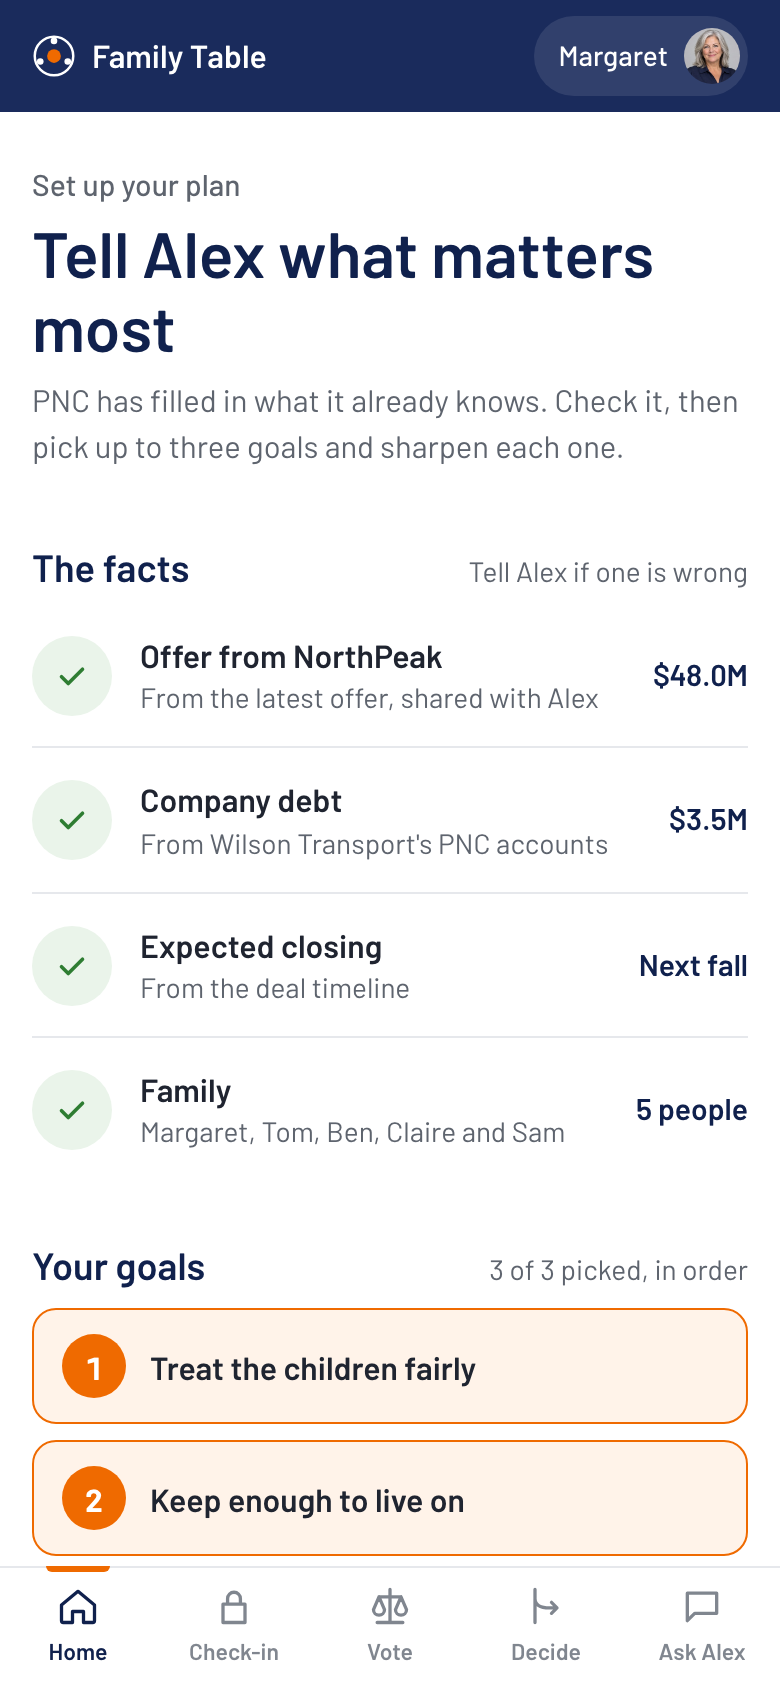
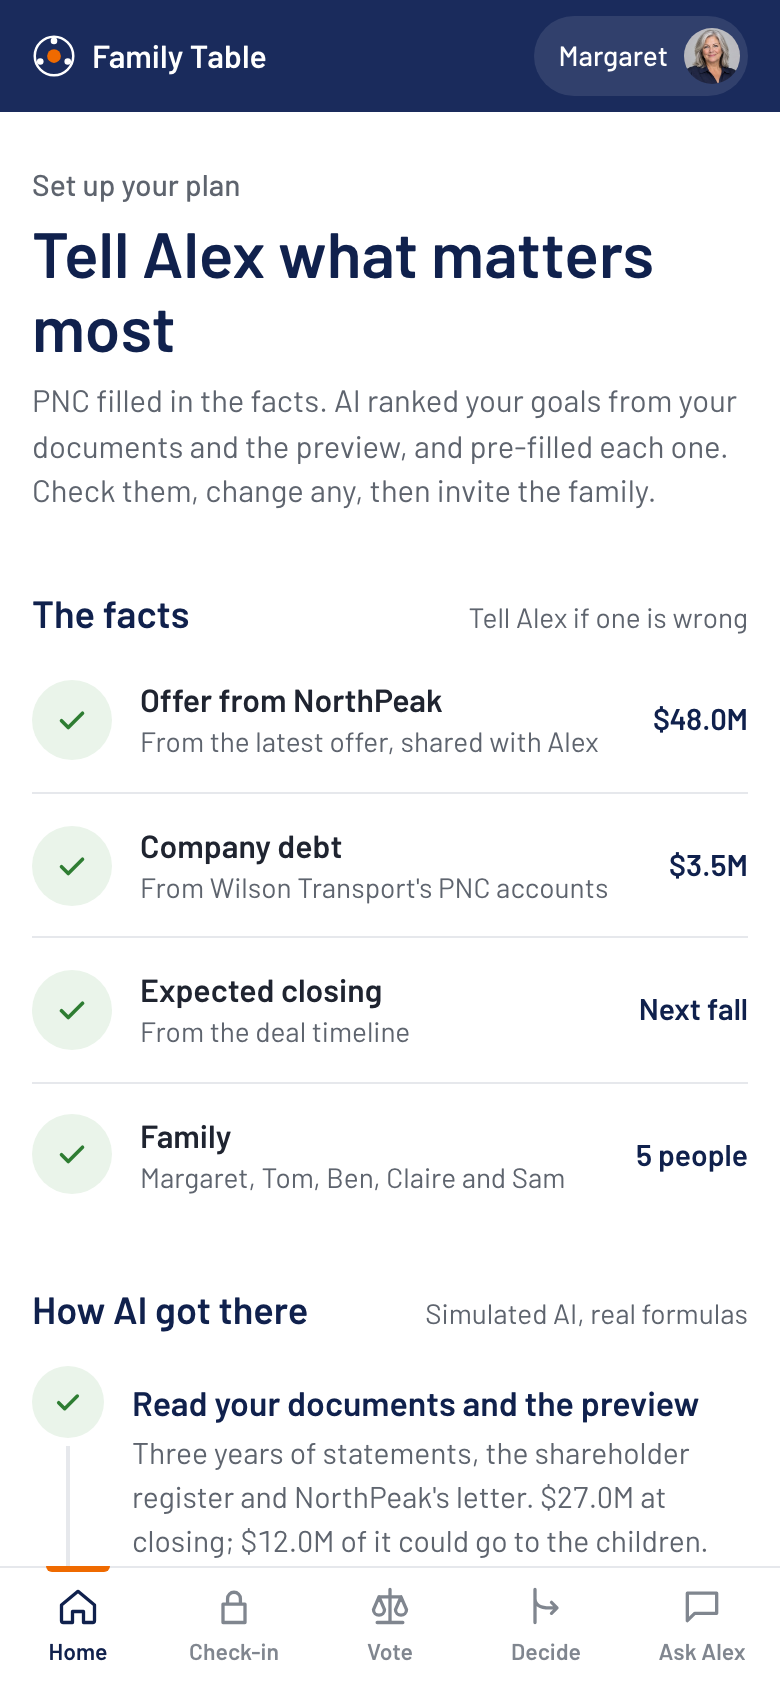
Setup: AI recommends the goals, Margaret confirms
"Your goals" and the sharpening sections are replaced by "What AI
recommends": a three-step trace (read the documents and the preview,
ranked the goals, pre-filled each one) and three goal cards in AI's
order, each already answered with a one-line reason from numbers the
prototype already has. "Change" opens the old control inline; a
changed value shows "Your choice" and what AI recommended. Unpicked
goals sit below as one-tap adds, and a fourth goal takes third place.
Nothing is saved until "Looks right, invite the family". Tour step 3
hint updated; the setup slide crop state updated; screenshots
regenerated.

diff --git a/prototype/app.js b/prototype/app.js
@@ -16,7 +16,7 @@
   const fresh = () => ({ shared: [], optOut: false, approved: false, started: false, routed: {}, pick: "balanced", picked: {}, votes: {},
     answers: {}, intro: {}, invited: false, chapter: [], agreed: {}, msgs: [], replies: {}, drafts: {}, calls: {}, confirmed: {},
     shareReply: {}, tour: -1, pv: { value: 48, kids: 3, inBiz: 1 }, pvDocs: null, pvRead: false, pvFix: false, previewed: false, goals: ["fair", "live", "chapter"],
-    fairMeans: null, spend: 300, foundation: 2, keepName: false, tree: {}, pathSent: {}, presented: false });
+    fairMeans: null, goalFix: {}, spend: 300, foundation: 2, keepName: false, tree: {}, pathSent: {}, presented: false });
   let state = fresh();
   try {
     const qp = new URLSearchParams(location.search);
@@ -236,7 +236,7 @@
     { side: "Family", stage: "Align", route: "preview", title: "Margaret previews what's possible",
       hint: "Before she talks to anyone, she adds what she has and AI reads it. Tap Use the Wilsons' documents.", target: '[data-act="pv-sample"]', done: () => state.pvRead },
     { side: "Family", stage: "Align", route: "me/margaret/setup", title: "Margaret sets her goals",
-      hint: "PNC already filled in the facts. She sharpens what fair means to her, then invites the family.", target: '[data-act="invite"]', done: () => state.invited },
+      hint: "AI ranked three goals from her documents and pre-filled each one. Margaret checks them and invites the family.", target: '[data-act="invite"]', done: () => state.invited },
     { side: "Family", stage: "Align", route: "me/claire/checkin", title: "Claire says what she's never said",
       hint: "Her words stay on this screen unless she shares them. Share answer 1 with Alex.", target: '[data-act="toggle-share"][data-id="q1"]', done: () => state.shared.includes("q1") },
     { side: "Advisor", stage: "Align", route: "advisor/align", title: "The AI reads. Alex decides.", noScroll: true,
@@ -631,29 +631,54 @@
   }
 
   // ---------- onboarding: confirm the facts, choose and sharpen goals ----------
+  // AI's recommendations for Margaret's goals, from the documents and the numbers the prototype already has.
+  // Nothing is saved until she invites the family; "Change" opens the control for that goal.
+  const REC = { fair: "balanced", chapter: "foundation" };
+  const fairNow = () => state.fairMeans || REC.fair;
+  const chapterNow = () => state.chapter.length ? state.chapter : [REC.chapter];
   function setupPage() {
-    const sel = state.goals, G = Object.fromEntries(S.goals.map(g => [g.id, g])), years = 9000 / state.spend;
+    const sel = state.goals, G = Object.fromEntries(S.goals.map(g => [g.id, g])), years = 9000 / state.spend, fm = fairNow(), ch = chapterNow();
     const refine = {
-      fair: () => `<p class="rf-q">For you, fair means…</p><div class="rf-opts">${S.options.map(o => { const g = gifts(o.w); return `<button class="rf-opt ${state.fairMeans === o.id ? "on" : ""}" data-act="fair-means" data-id="${o.id}" aria-pressed="${state.fairMeans === o.id}"><b>${o.label}</b><span>Ben ${money(g.ben)}, Claire ${money(g.claire)}, Sam ${money(g.sam)}</span></button>`; }).join("")}</div>`,
+      fair: () => `<p class="rf-q">For you, fair means…</p><div class="rf-opts">${S.options.map(o => { const g = gifts(o.w); return `<button class="rf-opt ${fm === o.id ? "on" : ""}" data-act="fair-means" data-id="${o.id}" aria-pressed="${fm === o.id}"><b>${o.label}</b><span>Ben ${money(g.ben)}, Claire ${money(g.claire)}, Sam ${money(g.sam)}</span></button>`; }).join("")}</div>`,
       live: () => `<p class="rf-q">How much would you and Tom spend a year?</p><div class="pv-in"><label><span>A year</span><b data-spend>$${state.spend}K</b></label><input type="range" min="200" max="450" step="25" value="${state.spend}" data-act="spend" aria-label="Spending a year, in thousands"></div>
         <p class="rf-out"><b data-years>${Math.floor(years)} years</b> is how long your ${money(9)} lasts at that pace, before any growth.</p>`,
-      chapter: () => `<p class="rf-q">What could your next chapter look like?</p><div class="chips">${CHAPTER.map(([id, t]) => `<button class="chip ${state.chapter.includes(id) ? "on" : ""}" data-act="chapter" data-id="${id}" aria-pressed="${state.chapter.includes(id)}">${t}</button>`).join("")}</div>`,
+      chapter: () => `<p class="rf-q">What could your next chapter look like?</p><div class="chips">${CHAPTER.map(([id, t]) => `<button class="chip ${ch.includes(id) ? "on" : ""}" data-act="chapter" data-id="${id}" aria-pressed="${ch.includes(id)}">${t}</button>`).join("")}</div>`,
       give: () => `<p class="rf-q">How much of the ${money(6)} you invest goes to a family foundation?</p><div class="seg" role="group">${[1, 2, 3].map(x => `<button class="${state.foundation === x ? "on" : ""}" data-act="foundation" data-id="${x}" aria-pressed="${state.foundation === x}">${money(x)}</button>`).join("")}</div>`,
       name: () => `<div class="switch-row"><span class="tx"><b>Ask NorthPeak to keep the Wilson Transport name for 3 years</b><span>Alex adds it to the questions for the letter of intent.</span></span><button class="switch" role="switch" aria-checked="${state.keepName}" aria-label="Ask to keep the company name" data-act="keep-name"></button></div>`,
     };
+    const g = gifts(OPT[fm].w);
+    const rec = {
+      fair: [`${OPT[fm].label}: Ben ${money(g.ben)}, Claire ${money(g.claire)}, Sam ${money(g.sam)}`, fm === REC.fair ? "Ben keeps $1.5M of NorthPeak equity. Balanced counts half of it, so the gap between siblings narrows. The family's own view comes from the private check-ins." : "Your choice. AI recommended Balanced: Ben keeps $1.5M of NorthPeak equity, and Balanced counts half of it."],
+      live: [`$${state.spend}K a year, about ${Math.floor(years)} years covered`, state.spend === 300 ? `Your ${money(9)} live-on bucket covers that for ${Math.floor(years)} years, before growth.` : `Your choice. AI suggested $300K a year, which the ${money(9)} bucket covers for 30 years before growth.`],
+      chapter: [ch.map(id => CHAPTER.find(c => c[0] === id)[1]).join("; "), ch.length === 1 && ch[0] === REC.chapter ? "Your plan already sets aside $2.0M to give back. A foundation gives it a home, and you a role after 35 years of running the company." : "Your choice. AI recommended the foundation: your plan already sets aside $2.0M to give back."],
+      give: [`${money(state.foundation)} to a family foundation`, `From the ${money(6)} you invest and give back.`],
+      name: [state.keepName ? "Ask NorthPeak to keep the name for 3 years" : "Not asked yet", "Alex adds it to the questions for the letter of intent."],
+    };
+    const summary = id => rec[id][0];
+    const cards = sel.map((id, i) => `<article class="rec"><div class="rec-h"><span class="rk">${i + 1}</span><b>${G[id].label}</b>
+        <button class="linkbtn" data-act="goal-fix" data-id="${id}">${state.goalFix[id] ? "Done" : "Change"}</button></div>
+        <p class="rec-v">${rec[id][0]}</p><p class="rec-why">${rec[id][1]}</p>
+        ${state.goalFix[id] ? `<div class="rec-edit">${refine[id]()}<button class="linkbtn small" data-act="goal" data-id="${id}">Remove this goal</button></div>` : ""}</article>`).join("");
+    const others = S.goals.filter(x => !sel.includes(x.id));
     return `<div class="page"><div class="cols"><div class="col-main">
       <section class="hero"><div class="label">Set up your plan</div><h1 class="title">Tell Alex what matters most</h1>
-        <div class="caption">PNC has filled in what it already knows. Check it, then pick up to three goals and sharpen each one.</div></section>
+        <div class="caption">PNC filled in the facts. AI ranked your goals from your documents and the preview, and pre-filled each one. Check them, change any, then invite the family.</div></section>
       <section class="section"><div class="section-head"><h2>The facts</h2><span class="aside">Tell Alex if one is wrong</span></div>
         <div class="rows">${S.facts.map(([k, v, src]) => `<div class="row"><span class="ic g">${ic("check", 18, 2.4)}</span><span class="tx"><b>${k}</b><span>${src}</span></span><span class="rt">${v}</span></div>`).join("")}</div></section>
-      <section class="section"><div class="section-head"><h2>Your goals</h2><span class="aside">${sel.length} of 3 picked, in order</span></div>
-        <div class="goals">${S.goals.map(g => { const i = sel.indexOf(g.id); return `<button class="goal ${i >= 0 ? "on" : ""}" data-act="goal" data-id="${g.id}" aria-pressed="${i >= 0}"><span class="g-n">${i >= 0 ? i + 1 : ic(g.icon, 18)}</span><b>${g.label}</b></button>`; }).join("")}</div></section>
-      ${sel.map((id, i) => `<section class="section refine"><div class="section-head"><h2><span class="rk">${i + 1}</span>${G[id].label}</h2></div>${refine[id]()}</section>`).join("")}
+      <section class="section trace-wrap"><div class="section-head"><h2>How AI got there</h2><span class="aside">Simulated AI, real formulas</span></div>
+        <ol class="trace">${[
+          ["Read your documents and the preview", `Three years of statements, the shareholder register and NorthPeak's letter. ${money(net())} at closing; ${money(12)} of it could go to the children.`],
+          ["Ranked your goals", "Fairness first: one child stays with the buyer and two don't. Then what you live on, then what comes after 35 years of running the company."],
+          ["Pre-filled each one", "From the numbers, not from guesses. Change any of them below."],
+        ].map(([t, b], k) => step(k, t, `<p>${b}</p>`)).join("")}</ol></section>
+      <section class="section recs"><div class="section-head"><h2>What AI recommends</h2><span class="aside">${sel.length} goals, in order</span></div>
+        <div class="rec-list">${cards}</div>
+        ${others.length ? `<p class="rf-q" style="margin-top:14px">Also considered. Tap one to add it; with three already picked, it takes third place.</p><div class="goals">${others.map(x => `<button class="goal" data-act="goal" data-id="${x.id}" aria-pressed="false"><span class="g-n">${ic(x.icon, 18)}</span><b>${x.label}</b></button>`).join("")}</div>` : ""}</section>
       </div><aside class="col-side">
         <section class="panel"><div class="section-head"><h2>What Alex will see</h2></div><div class="rows">
-          ${sel.length ? sel.map((id, i) => `<div class="row"><span class="ic o">${i + 1}</span><span class="tx"><b>${G[id].label}</b><span>${id === "fair" ? (state.fairMeans ? "Fair means: " + OPT[state.fairMeans].label : "Not sharpened yet") : id === "live" ? `$${state.spend}K a year, about ${Math.floor(years)} years covered` : id === "chapter" ? `${state.chapter.length} idea${state.chapter.length === 1 ? "" : "s"} picked` : id === "give" ? `${money(state.foundation)} to a family foundation` : state.keepName ? "Ask to keep the name for 3 years" : "Not asked yet"}</span></span></div>`).join("") : `<p class="small muted">Pick at least one goal.</p>`}</div>
+          ${sel.length ? sel.map((id, i) => `<div class="row"><span class="ic o">${i + 1}</span><span class="tx"><b>${G[id].label}</b><span>${summary(id)}</span></span></div>`).join("") : `<p class="small muted">Pick at least one goal.</p>`}</div>
           <p class="micro faint" style="margin-top:8px">Your goals go to Alex. Your family sees only the options they lead to.</p>
-          <div style="margin-top:14px">${state.invited ? `<button class="btn done block" disabled>${ic("check", 18, 2.4)} Goals saved, family invited</button>` : `<button class="btn block" data-act="invite" ${sel.length ? "" : "disabled"}>Save my goals and invite the family</button>`}</div></section>
+          <div style="margin-top:14px">${state.invited ? `<button class="btn done block" disabled>${ic("check", 18, 2.4)} Goals saved, family invited</button>` : `<button class="btn block" data-act="invite" ${sel.length ? "" : "disabled"}>Looks right, invite the family</button>`}</div></section>
       </aside></div></div>`;
   }
 
@@ -850,7 +875,8 @@
     else if (a === "approve") set({ approved: true });
     else if (a === "unapprove") set({ approved: false });
     else if (a === "route") set({ routed: Object.assign({}, state.routed, { [id]: true }) });
-    else if (a === "invite") set({ invited: true });
+    else if (a === "invite") set({ invited: true, fairMeans: fairNow(), chapter: chapterNow() });
+    else if (a === "goal-fix") set({ goalFix: Object.assign({}, state.goalFix, { [id]: !state.goalFix[id] }), fairMeans: fairNow(), chapter: chapterNow() });
     else if (a === "chapter") set({ chapter: state.chapter.includes(id) ? state.chapter.filter(x => x !== id) : [...state.chapter, id] });
     else if (a === "intro") set({ intro: Object.assign({}, state.intro, { [id]: true }) });
     else if (a === "agree") set({ agreed: Object.assign({}, state.agreed, { [id]: true }) });
@@ -876,7 +902,7 @@
     else if (a === "pv-reset") set({ pvRead: false, pvDocs: null, pvFix: false });
     else if (a === "pv-kids") { const k = +id; set({ previewed: true, pv: Object.assign({}, state.pv, { preset: null, kids: k, inBiz: Math.min(state.pv.inBiz, k) }) }); }
     else if (a === "pv-inbiz") set({ previewed: true, pv: Object.assign({}, state.pv, { preset: null, inBiz: +id }) });
-    else if (a === "goal") { const g = state.goals; set({ goals: g.includes(id) ? g.filter(x => x !== id) : g.length < 3 ? [...g, id] : g }); }
+    else if (a === "goal") { const g = state.goals; set({ goals: g.includes(id) ? g.filter(x => x !== id) : g.length < 3 ? [...g, id] : [...g.slice(0, 2), id] }); } // a fourth goal takes third place
     else if (a === "fair-means") set({ fairMeans: id });
     else if (a === "foundation") set({ foundation: +id });
     else if (a === "keep-name") set({ keepName: !state.keepName });

diff --git a/prototype/styles.css b/prototype/styles.css
@@ -762,3 +762,16 @@ ul.pz-list { list-style: none; padding: 0; }
 .pv-fixbox .pv-in { margin-top: 0; }
 .pv-empty { padding: 18px; border-radius: var(--r); background: var(--surface); font-size: 15px; color: var(--sub); }
 .pv-files .linkbtn { min-height: 40px; padding: 0 6px; }
+
+/* ---------- setup: AI-recommended goals ---------- */
+.rec-list { display: grid; gap: 10px; margin-top: 8px; }
+.rec { padding: 14px 16px; border-radius: var(--r-lg); border: 1.5px solid var(--line); background: var(--bg); }
+.rec-h { display: flex; align-items: center; gap: 10px; }
+.rec-h b { flex: 1; font-size: 17px; font-weight: 600; color: var(--navy); }
+.rec-h .linkbtn { min-height: 40px; padding: 0 6px; }
+.rec-v { font-size: 16px; font-weight: 600; color: var(--text); margin-top: 8px; }
+.rec-why { font-size: 14.5px; color: var(--sub); margin-top: 4px; }
+.rec-edit { margin-top: 12px; padding: 12px 14px; border-radius: var(--r); background: var(--surface); }
+.rec-edit .linkbtn.small { display: block; margin-top: 10px; font-size: 13.5px; min-height: 40px; }
+.rec-edit .seg { margin-top: 10px; background: var(--bg); }
+.rec-edit .seg button.on { background: var(--navy); color: #fff; box-shadow: none; }

diff --git a/video/src/slide_shots_v2.js b/video/src/slide_shots_v2.js
@@ -7,7 +7,7 @@ const BASE = process.argv[2] || "http://localhost:4311/prototype/";
 const OUT = path.join(__dirname, "../../prototype/shots");
 const PHONE = [
   ["preview", "slide_preview_m", { pvRead: true, pvDocs: { names: ["Financial statements, 2023 to 2025.pdf", "Shareholder register.pdf", "NorthPeak letter of intent.pdf"], own: false }, pv: { value: 48, kids: 3, inBiz: 1 } }, null],
-  ["me/margaret/setup", "slide_setup_m", { fairMeans: "balanced" }, ".refine"],
+  ["me/margaret/setup", "slide_setup_m", {}, ".recs"],
   ["me/sam/decide", "slide_decide_m", { votes: { sam: "balanced" }, tree: { sam: { count: "balanced", pay: "trust" } } }, null],
 ];
 (async () => {
